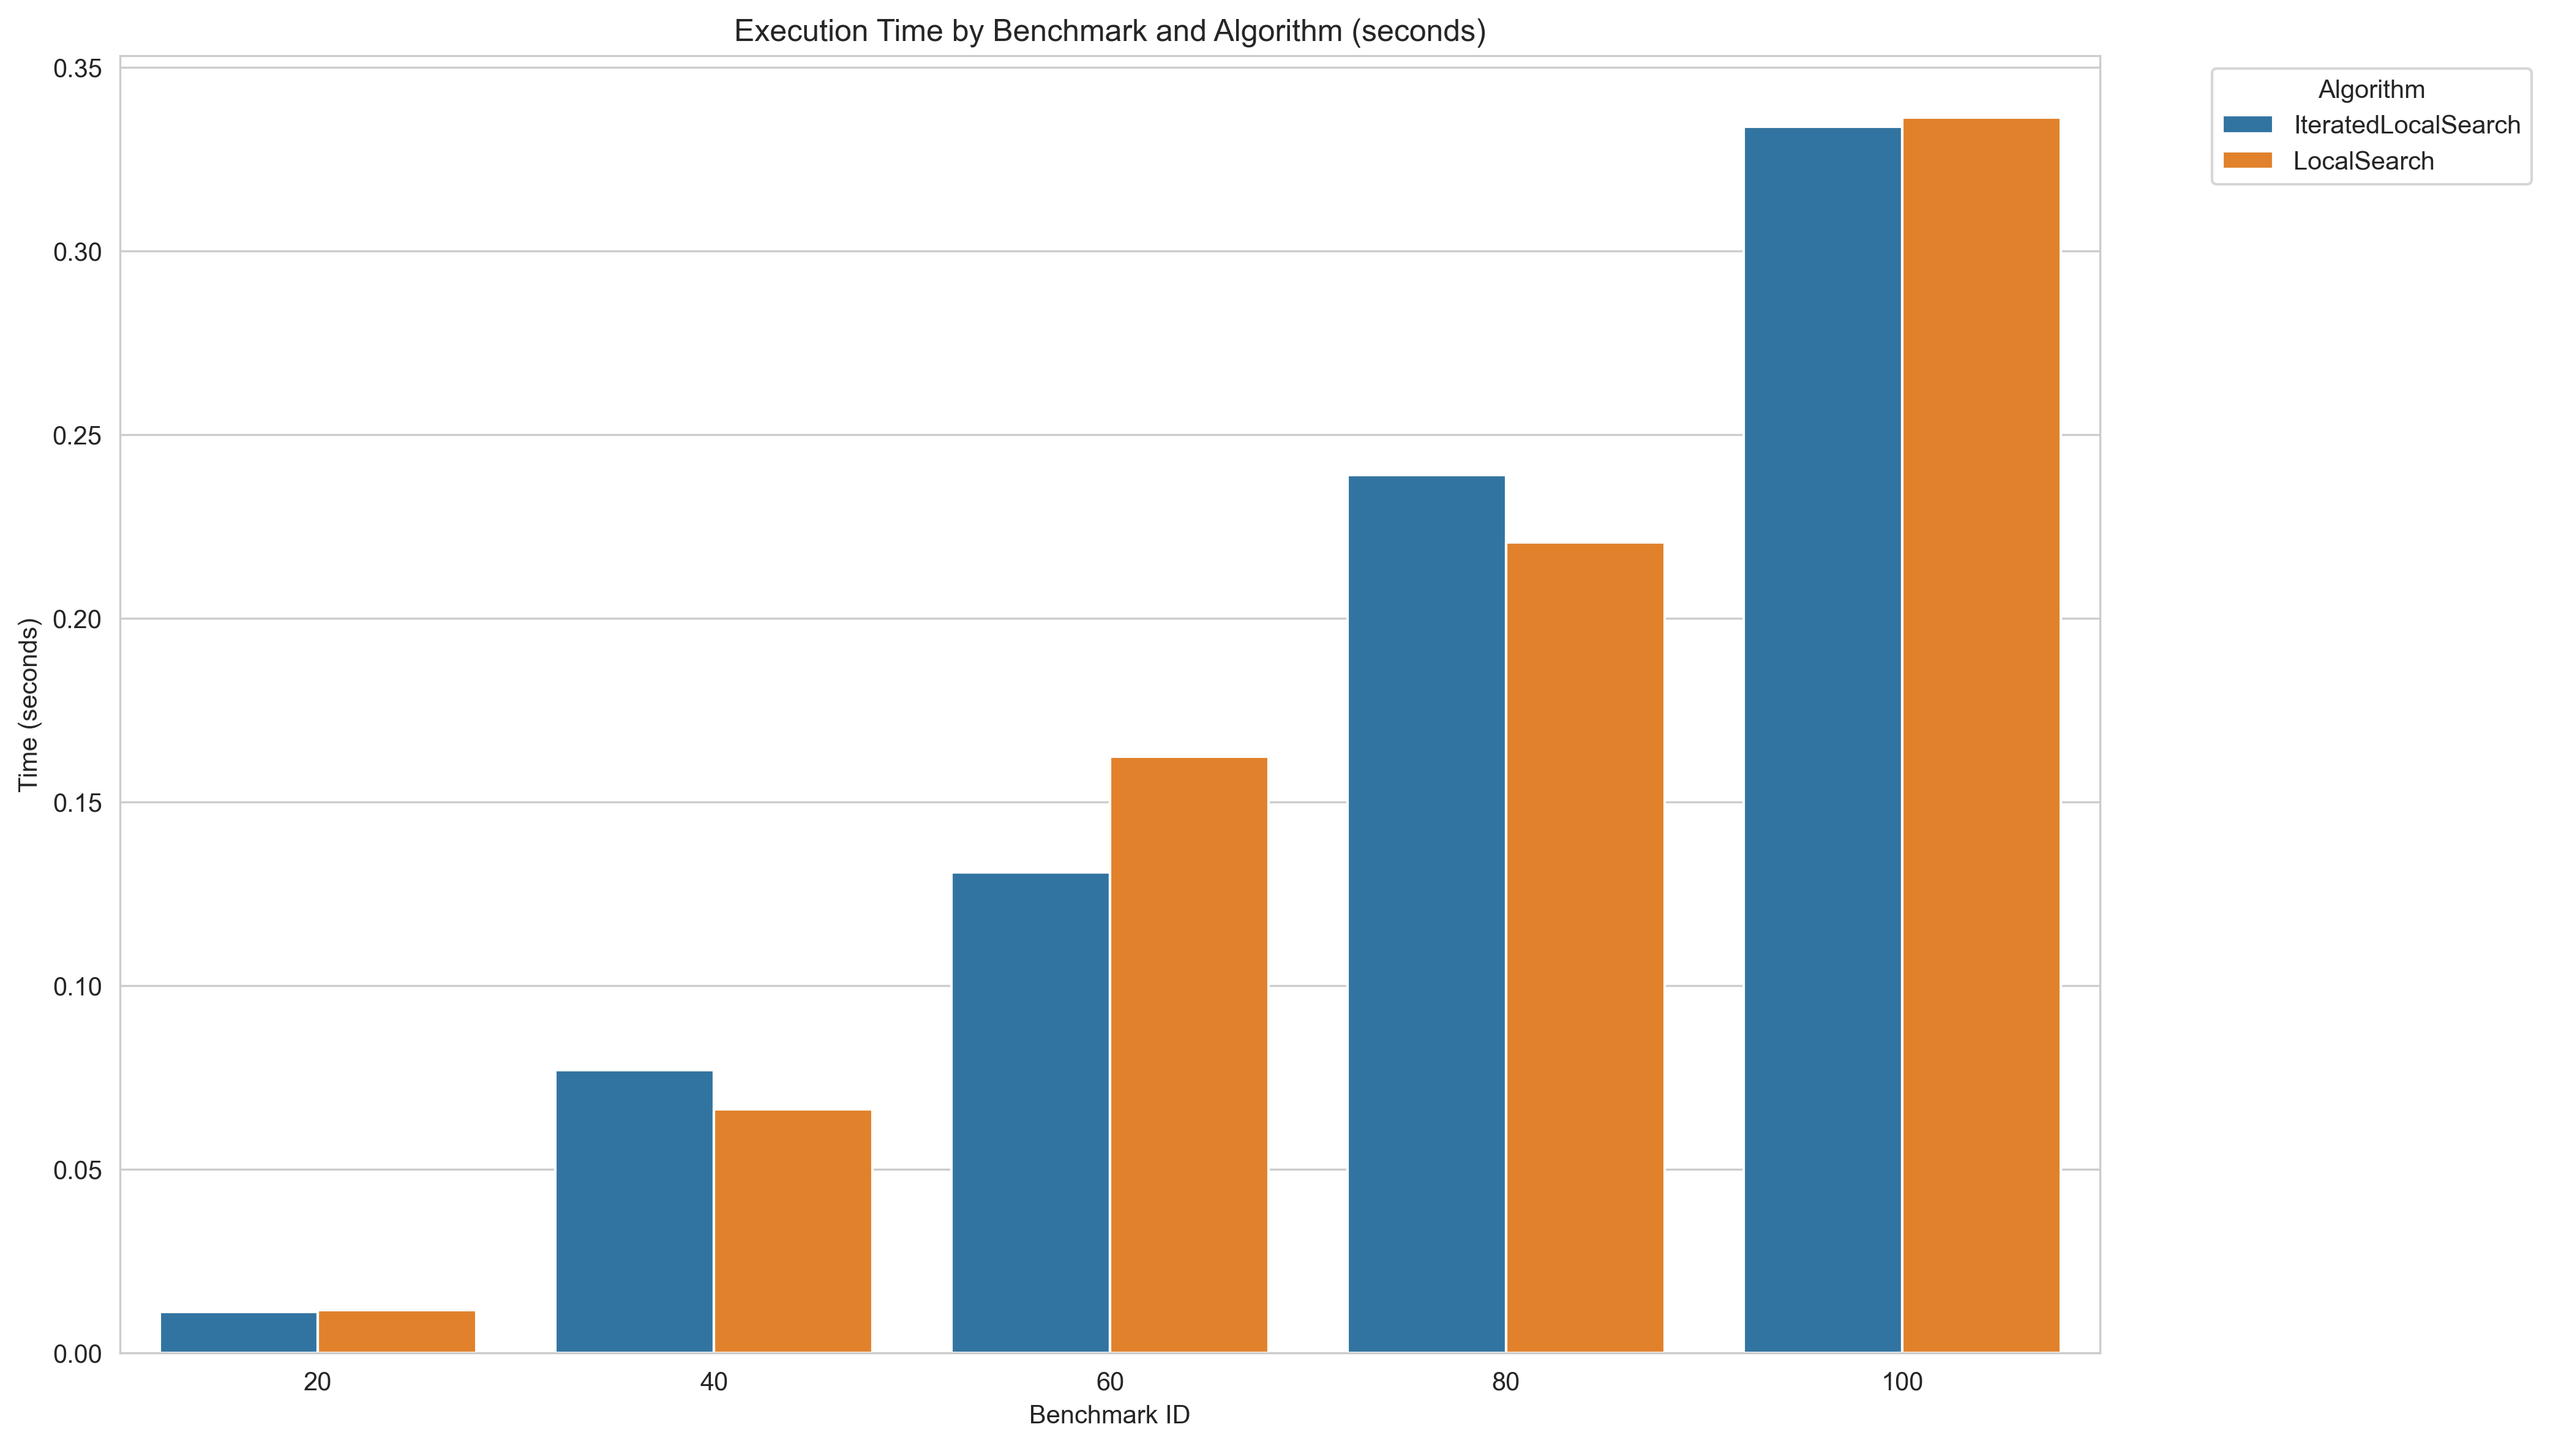
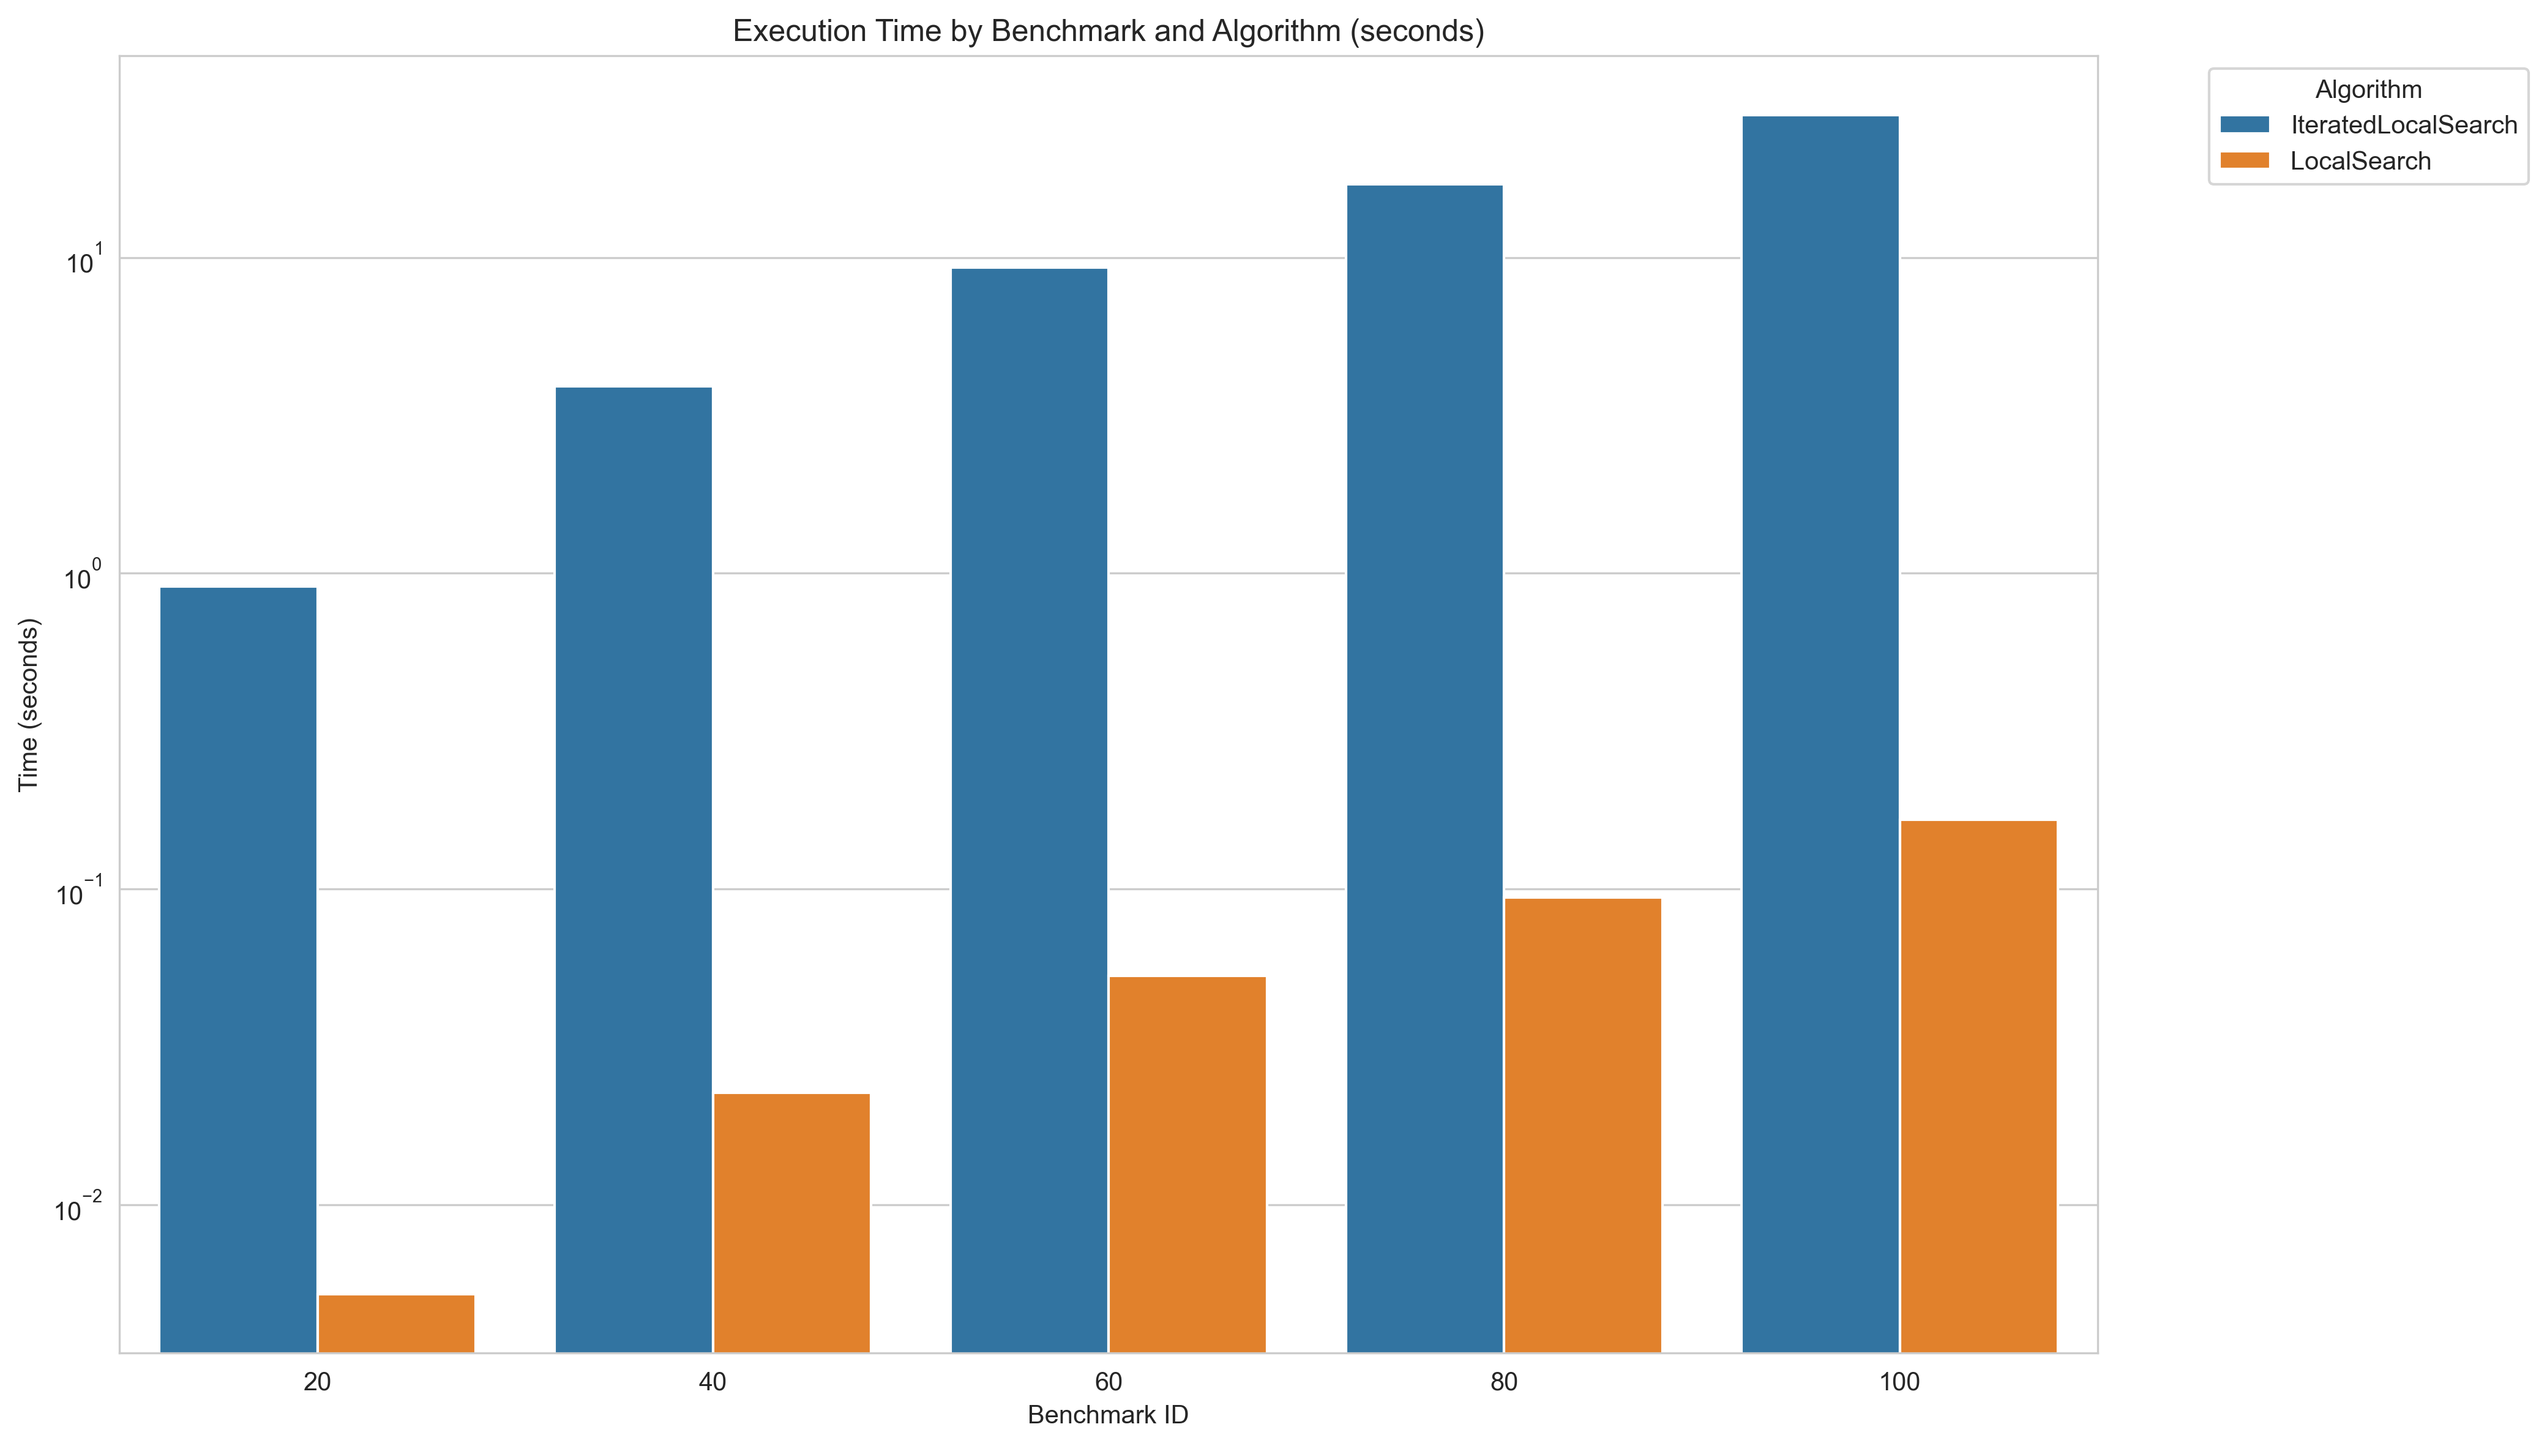
fixed algs, benchmarks and plots

diff --git a/src/ils.py b/src/ils.py
@@ -6,22 +6,16 @@ from src.local_search import LocalSearch, read_qap_data
 
 
 class IteratedLocalSearch(LocalSearch):
-    def __init__(self, dist_mtx: List, flow_mtx: List, max_iters: int = 100):
+    def __init__(self, dist_mtx: List, flow_mtx: List, max_iters: int = 200):
         super().__init__(dist_mtx, flow_mtx)
         self.max_iters = max_iters
-        self.dont_look_bits = np.zeros(self.N, dtype=int)
 
-    def perturbation(self, solution: np.ndarray, current_iter: int) -> np.ndarray:
-        k = max(4, self.N // 5)
-        possible_indices = np.argsort(self.dont_look_bits)[:2*k]
-        perturbation_indices = np.random.choice(possible_indices, size=k, replace=False)
-        self.dont_look_bits[perturbation_indices] = current_iter
-
+    def perturbation(self, solution: np.ndarray) -> np.ndarray:
         new_solution = solution.copy()
-        np.random.shuffle(new_solution[perturbation_indices])
+        i, j = sorted(np.random.choice(self.N, size=2, replace=False))
+        new_solution[i:j + 1] = new_solution[i:j + 1][::-1]
 
         return new_solution
-
 
     def iterated_solve(self, solution: np.array = None) -> Tuple[np.ndarray, float]:
         if solution is None:
@@ -33,13 +27,18 @@ class IteratedLocalSearch(LocalSearch):
         best_solution = current_solution.copy()
         best_cost = current_cost
 
+        no_improve_count = 0
         for iteration in range(self.max_iters):
-            perturbation_solution = self.perturbation(current_solution, iteration)
-            new_solution, new_cost = self.solve(perturbation_solution)
+            perturbation_solution = self.perturbation(current_solution)
+            new_solution, new_cost,  = self.solve(perturbation_solution)
 
             if new_cost < best_cost:
                 best_solution = new_solution.copy()
                 best_cost = new_cost
+                no_improve_count = 0
+            else:
+                no_improve_count += 1
+
             current_solution = new_solution
 
         return best_solution, best_cost
@@ -50,11 +49,10 @@ class IteratedLocalSearch(LocalSearch):
 
 
 if __name__ == "__main__":
-    dist_list, flow_list = read_qap_data('benchmarks/tai20a')
+    dist_list, flow_list = read_qap_data('benchmarks/tai100a')
 
-    ils = IteratedLocalSearch(dist_list, flow_list, max_iters=100)
+    ils = IteratedLocalSearch(dist_list, flow_list, max_iters=200)
 
     sol, cost = ils.iterated_solve()
-    ils.save_solution("tai20a.sol", sol)
     print("Solution:", sol)
     print("Cost:", cost)

diff --git a/src/benchmarks.py b/src/benchmarks.py
@@ -28,15 +28,22 @@ class Benchmark:
         for algorithm in self.algorithms:
             best_total_cost = float('inf')
             best_solution = []
-            total_time_start = time.time()
+            total_time = 0
             for _ in range(self.runs):
                 alg = algorithm(dist_list, flow_list)
-                solution, total_cost = alg.solve()
+                start = time.time()
+
+                if isinstance(alg, IteratedLocalSearch):
+                    solution, total_cost = alg.iterated_solve()
+                else:
+                    solution, total_cost = alg.solve()
+
+                total_time += time.time() - start
                 if total_cost < best_total_cost:
                     best_total_cost = total_cost
-                    best_solution = solution
+                    best_solution = solution.copy()
 
-            avg_time = (time.time() - total_time_start) / self.runs
+            avg_time = (total_time) / self.runs
             self.results.append({
                 'benchmark_id': int(benchmark[3:-1]),
                 'alg': algorithm.__name__,
@@ -45,7 +52,8 @@ class Benchmark:
                 'avg_time_sec': round(avg_time, 7),
                 'solution': " ".join(map(str, best_solution))
             })
-            self.save_solution("results/"+benchmark + ".sol", best_solution)
+            if algorithm is IteratedLocalSearch:
+                self.save_solution("results/"+benchmark + ".sol", best_solution)
 
     def save_solution(self, file_path: str, solution: np.array) -> None:
         with open(file_path, 'w') as file:

diff --git a/main.py b/main.py
@@ -14,6 +14,7 @@ plt.figure(figsize=(12, 8))
 
 plt.figure(figsize=(14, 8))
 sns.barplot(x='benchmark_id', y='avg_time_sec', hue='alg', data=data)
+plt.yscale('log')
 plt.title('Execution Time by Benchmark and Algorithm (seconds)')
 plt.xlabel('Benchmark ID')
 plt.ylabel('Time (seconds)')
@@ -24,10 +25,11 @@ plt.close()
 
 plt.figure(figsize=(14, 8))
 sns.barplot(x='benchmark_id', y='best_total_cost', hue='alg', data=data)
-plt.title('Algorithm Profit by Benchmark and Algorithm')
+plt.yscale('log')
+plt.title('Algorithm Cost by Benchmark and Algorithm')
 plt.xlabel('Benchmark ID')
-plt.ylabel('Profit')
+plt.ylabel('Cost')
 plt.legend(title='Algorithm', bbox_to_anchor=(1.05, 1), loc='upper left')
 plt.tight_layout()
-plt.savefig(os.path.join(bench_path, 'algorithm_profit.png'), dpi=300, bbox_inches='tight')
+plt.savefig(os.path.join(bench_path, 'algorithm_cost.png'), dpi=300, bbox_inches='tight')
 plt.close()
